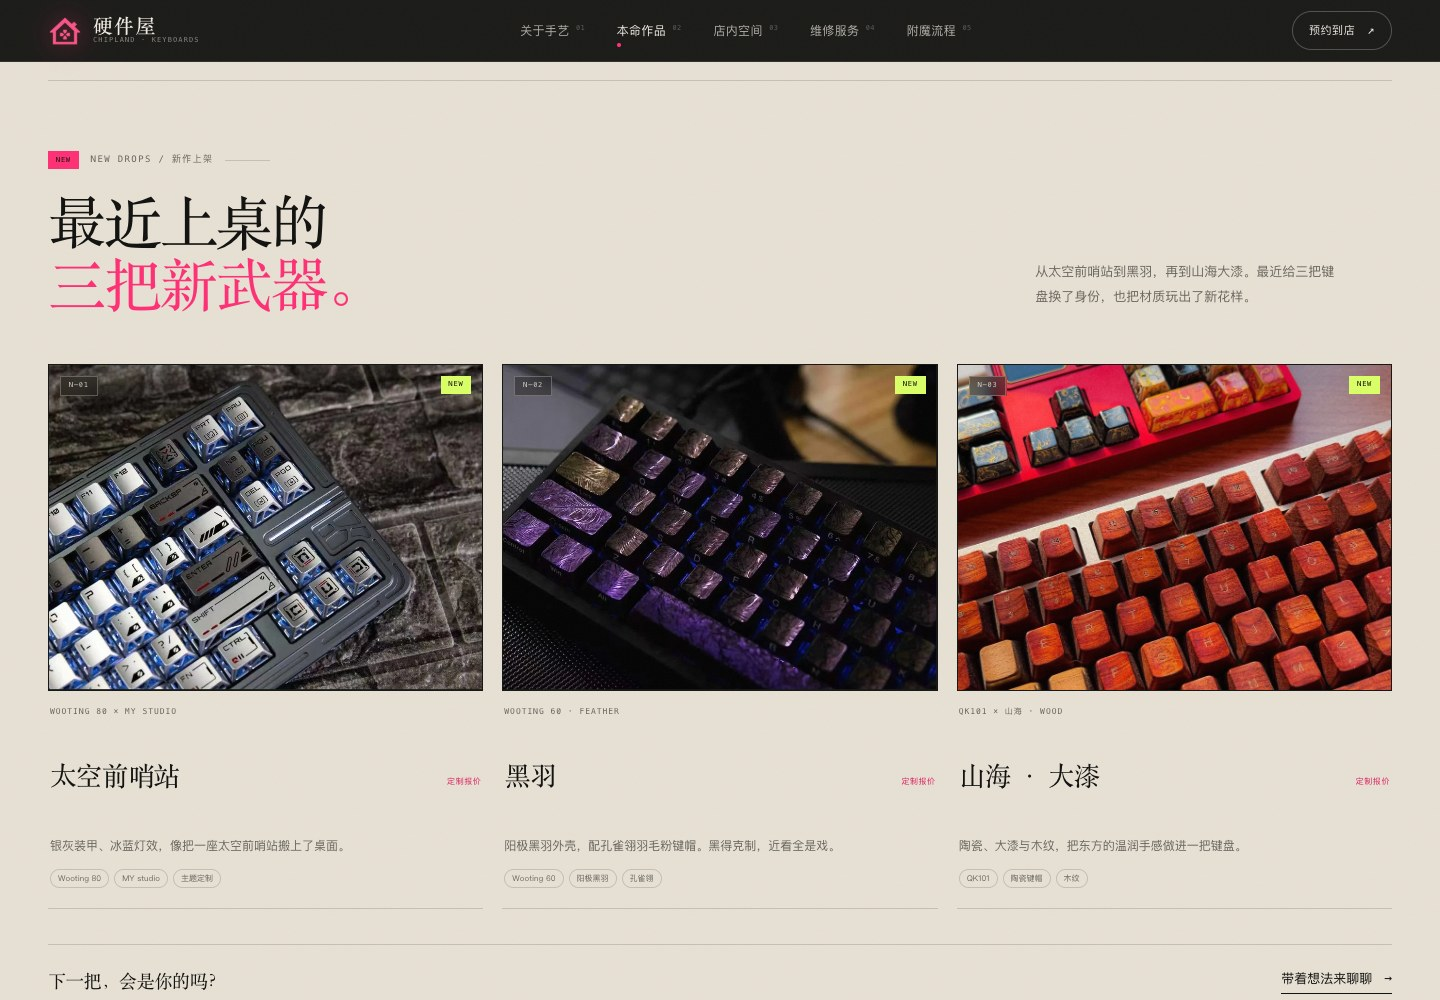
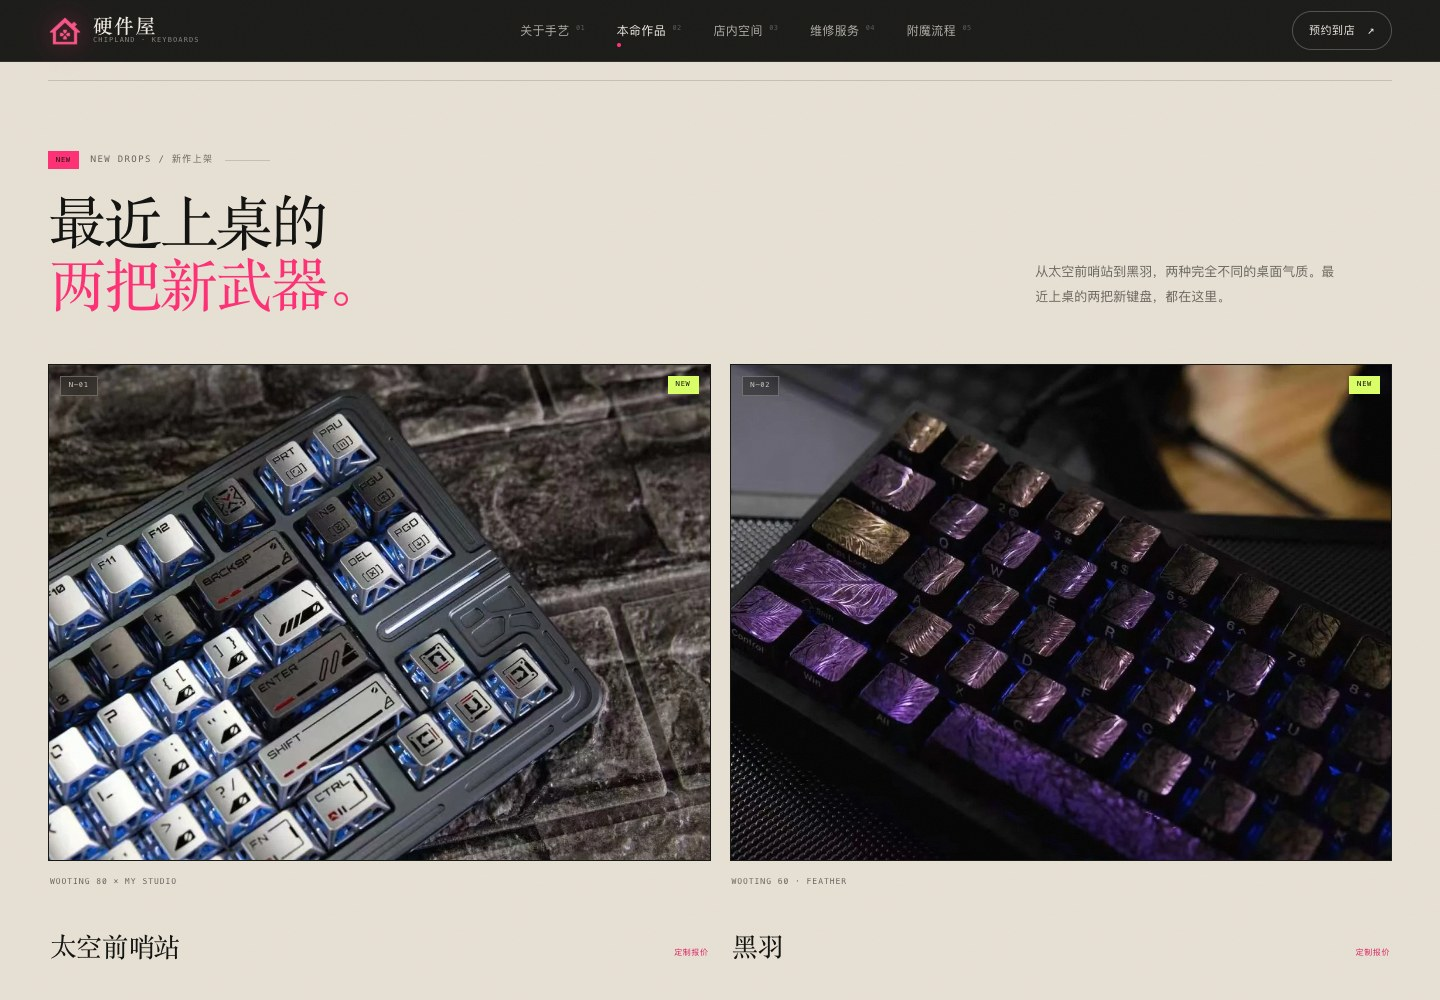
Fix Black Feather and Shanhai Daqi image mapping

diff --git a/index.html b/index.html
@@ -287,6 +287,10 @@
               <source srcset="assets/img/shanhai-red-detail.webp" type="image/webp">
               <img src="assets/img/shanhai-red-detail.jpg" width="1440" height="695" alt="QK101 × 山海大漆红黑金配色键盘与大漆键帽细节" loading="lazy" decoding="async">
             </picture>
+            <picture class="build-card__media build-card__media--alt" aria-hidden="true">
+              <source srcset="assets/img/shanhai-wide.webp" type="image/webp">
+              <img src="assets/img/shanhai-wide.jpg" width="1440" height="965" alt="" loading="lazy" decoding="async">
+            </picture>
             <div class="build-card__scrim" aria-hidden="true"></div>
             <span class="build-card__index">03</span>
             <span class="build-card__price">CUSTOM <b>报价</b></span>
@@ -328,10 +332,10 @@
           <div class="drops__head">
             <div data-reveal>
               <p class="drops__kicker"><span>New</span> New Drops / 新作上架</p>
-              <h3 class="drops__title">最近上桌的<br><em>三把新武器。</em></h3>
+              <h3 class="drops__title">最近上桌的<br><em>两把新武器。</em></h3>
             </div>
             <div class="drops__intro" data-reveal style="--d:.08s">
-              <p>从太空前哨站到黑羽，再到山海大漆。最近给三把键盘换了身份，也把材质玩出了新花样。</p>
+              <p>从太空前哨站到黑羽，两种完全不同的桌面气质。最近上桌的两把新键盘，都在这里。</p>
               <span class="drops__swipe">左右滑动看更多 <span aria-hidden="true">→</span></span>
             </div>
           </div>
@@ -371,10 +375,6 @@
                   <source srcset="assets/img/blackfeather-feather.webp" type="image/webp">
                   <img src="assets/img/blackfeather-feather.jpg" width="1440" height="845" alt="Wooting 60 黑羽客制键盘的孔雀翎羽毛粉键帽" loading="lazy" decoding="async">
                 </picture>
-                <picture class="drop-card__alt" aria-hidden="true">
-                  <source srcset="assets/img/blackfeather-case.webp" type="image/webp">
-                  <img src="assets/img/blackfeather-case.jpg" width="1440" height="845" alt="" loading="lazy" decoding="async">
-                </picture>
                 <span class="drop-card__index">N–02</span>
                 <span class="drop-card__new">New</span>
               </div>
@@ -393,33 +393,6 @@
               </div>
             </article>
 
-            <article class="drop-card" data-reveal style="--d:.16s">
-              <div class="drop-card__media">
-                <picture>
-                  <source srcset="assets/img/shanhai-detail.webp" type="image/webp">
-                  <img src="assets/img/shanhai-detail.jpg" width="1440" height="689" alt="山海大漆 QK101 陶瓷木纹与红色键帽细节" loading="lazy" decoding="async">
-                </picture>
-                <picture class="drop-card__alt" aria-hidden="true">
-                  <source srcset="assets/img/shanhai-wide.webp" type="image/webp">
-                  <img src="assets/img/shanhai-wide.jpg" width="1440" height="965" alt="" loading="lazy" decoding="async">
-                </picture>
-                <span class="drop-card__index">N–03</span>
-                <span class="drop-card__new">New</span>
-              </div>
-              <div class="drop-card__body">
-                <p class="drop-card__series">QK101 × 山海 · Wood</p>
-                <div class="drop-card__name">
-                  <h4>山海 · 大漆</h4>
-                  <span>定制报价</span>
-                </div>
-                <p class="drop-card__desc">陶瓷、大漆与木纹，把东方的温润手感做进一把键盘。</p>
-                <ul class="drop-tags">
-                  <li>QK101</li>
-                  <li>陶瓷键帽</li>
-                  <li>木纹</li>
-                </ul>
-              </div>
-            </article>
           </div>
         </div>
 

diff --git a/assets/site.css b/assets/site.css
@@ -1530,7 +1530,7 @@ main section[id] {
 
 .drops__grid {
   display: grid;
-  grid-template-columns: repeat(3, minmax(0, 1fr));
+  grid-template-columns: repeat(2, minmax(0, 1fr));
   gap: 19px;
   margin-top: clamp(34px, 4vw, 50px);
 }
@@ -3108,13 +3108,6 @@ main section[id] {
     gap: 14px;
   }
 
-  .drop-card:last-child {
-    grid-column: 1 / -1;
-  }
-
-  .drop-card:last-child .drop-card__media {
-    aspect-ratio: 16 / 8.6;
-  }
 
   .drop-card__desc {
     max-width: none;

diff --git a/README.md b/README.md
@@ -22,7 +22,7 @@ python3 -m http.server 8000
 ├── assets/
 │   ├── site.css        # 全部样式与响应式布局
 │   ├── site.js         # 导航、滚动动效、预约弹窗、复制地址/预约暗号
-│   └── img/            # 15 张作品/空间照片（jpg + webp）+ 店铺地图 + 4 个 logo 文件
+│   └── img/            # 13 张作品/空间照片（jpg + webp）+ 店铺地图 + 4 个 logo 文件
 ├── preview.jpg         # 首屏预览图
 ├── preview-drops.jpg   # 新作上架区域预览图
 ├── preview-repair.jpg  # 维修服务区域预览图
